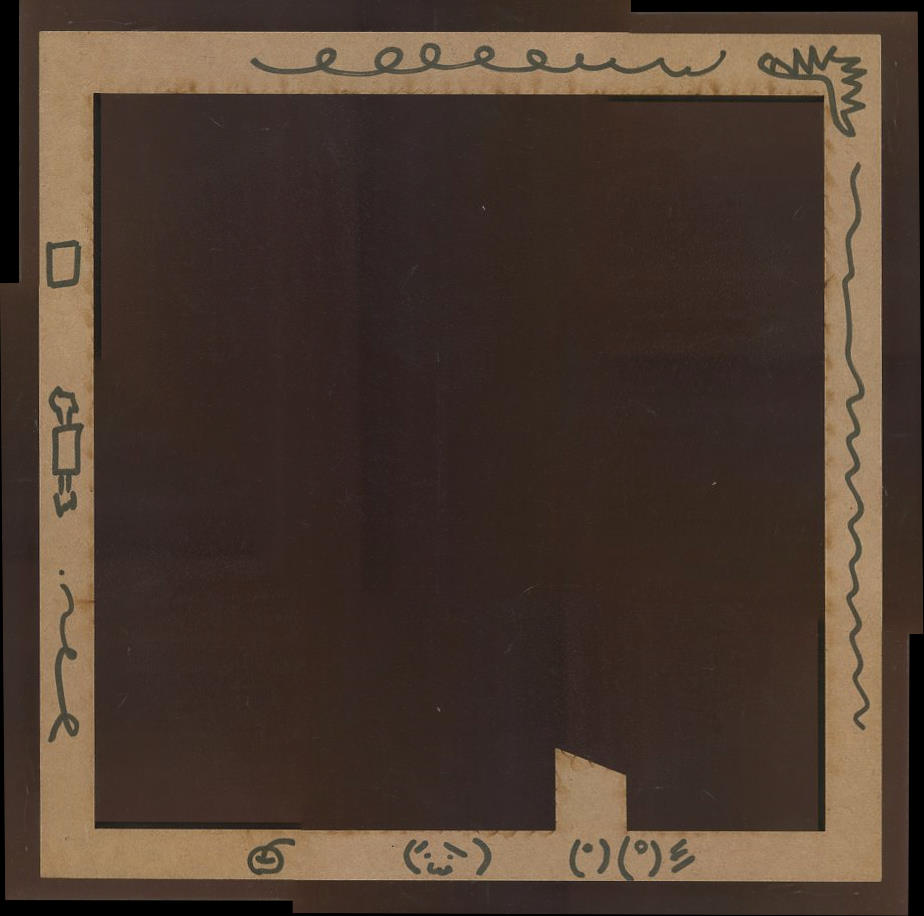
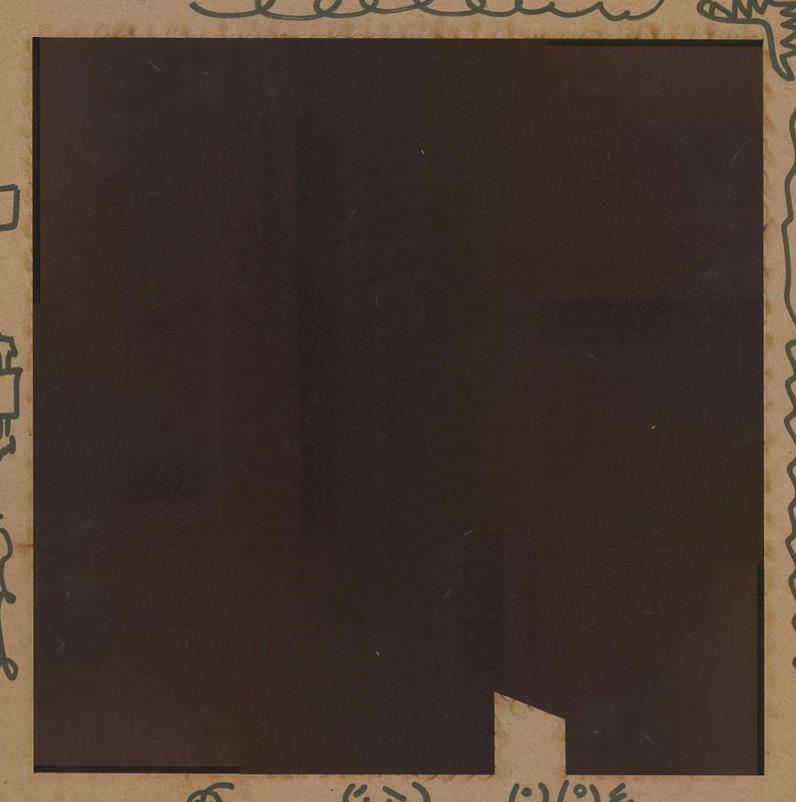
枠の読み取り完成版
枠のデータを早急に

diff --git a/opencv/opencv/Operator.cpp b/opencv/opencv/Operator.cpp
@@ -35,9 +35,9 @@ void Operator::read_image() {
 	}
 
 	//とりあえず枠の二値化
-	//frame_bin();
+	frame_bin();
 	//枠の読み込み
-	//frame = make_shared<Frame>(make_shared<cv::Mat> (cv::imread("new_item/frame.png", 0)), 0);
+	frame = make_shared<Frame>(make_shared<cv::Mat> (cv::imread("new_item/frame.png", 0)), 0);
 }
 
 void Operator::init_pieces() {
@@ -61,6 +61,8 @@ int Operator::cut_image(string str,int count) {
 	int roicount = 0;
 
 	cv::threshold(piece, piece, 70, 255, CV_THRESH_BINARY);
+	
+	cv::imshow("test", piece);
 
 	cv::findContours(piece, contours, CV_RETR_LIST, CV_CHAIN_APPROX_NONE);
 
@@ -122,6 +124,7 @@ void Operator::frame_bin() {
 	cv::Mat gray = cv::imread("item/frame.jpg",0);
 	cv::Mat bin;
 	threshold(gray, bin, 0, 255, CV_THRESH_BINARY | CV_THRESH_OTSU);
-	cv::imshow("frame_bin", bin);
+	bin = ~bin;
+	cv::imshow("frame_bin",bin);
 	cv::imwrite("new_item/frame.jpg",bin);
 }
